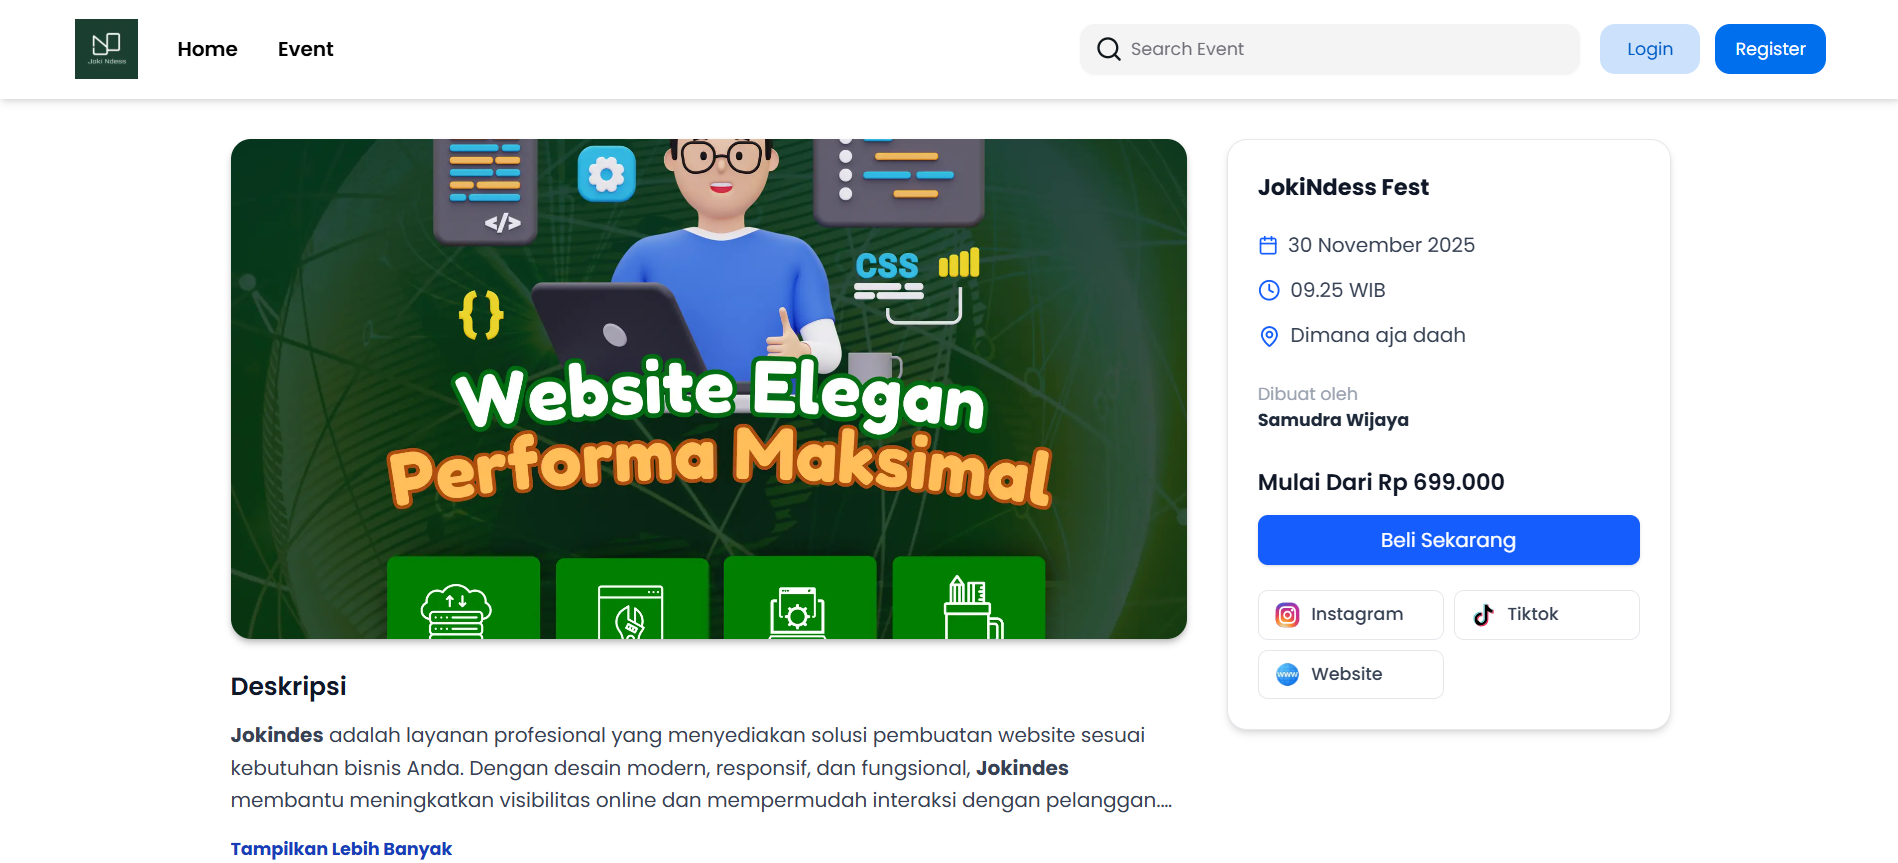
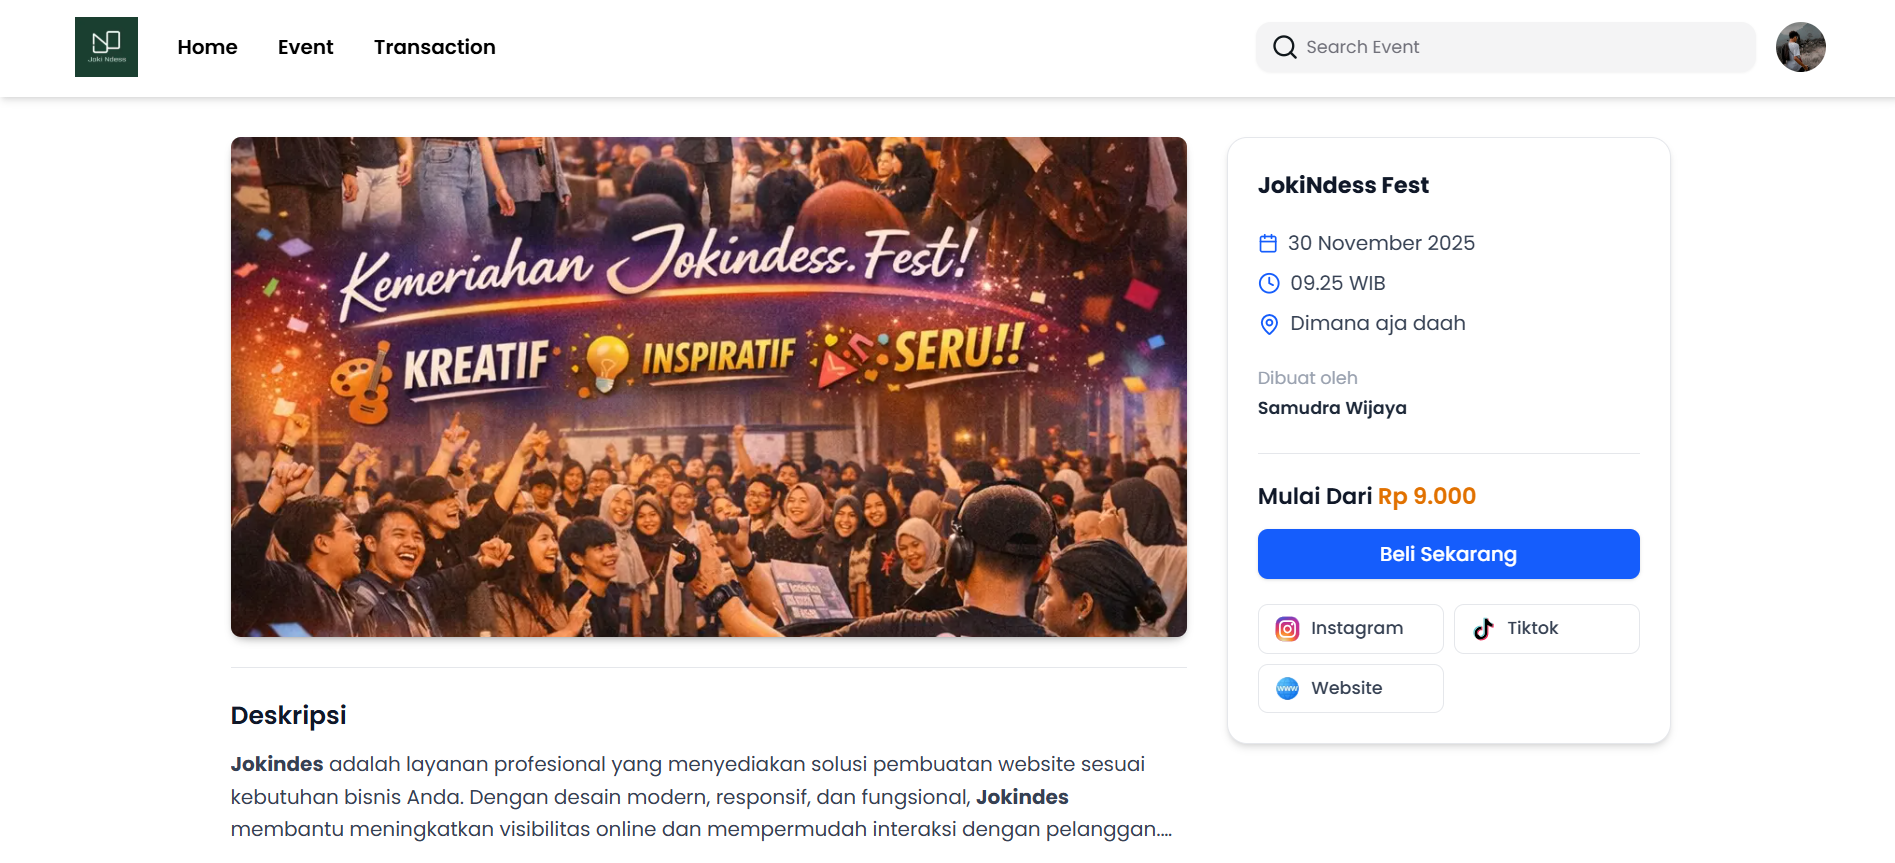
update project

diff --git a/components/Project.tsx b/components/Project.tsx
@@ -17,6 +17,7 @@ import {
   SiAntdesign,
   SiLeaflet,
   SiNextui,
+  SiPrisma,
 } from "react-icons/si";
 import AOS from "aos";
 import "aos/dist/aos.css";
@@ -30,6 +31,7 @@ const iconComponents: { [key: string]: JSX.Element } = {
   FaNodeJs: <FaNodeJs className="w-6 h-6 text-green-500" />,
   SiMongodb: <SiMongodb className="w-6 h-6 text-green-500" />,
   RiNextjsLine: <RiNextjsLine className="w-6 h-6 text-gray-500" />,
+  SiPrisma: <SiPrisma className="w-6 h-6 text-gray-500" />,
   BsBootstrap: <BsBootstrap className="w-6 h-6 text-purple-600" />,
   FaFlutter: <FaFlutter className="w-6 h-6 text-blue-500" />,
   SiTypescript: <SiTypescript className="w-6 h-6 text-blue-500" />,
@@ -106,6 +108,22 @@ const projects = [
       "SiMongodb",
     ],
     link: "https://www.jokindess.com/",
+  },
+  {
+    title: "PPG Balam",
+    description: "A website aimed at and focused on youth development",
+    image: "/project/ppg.png",
+    icon: [
+      "RiNextjsLine",
+      "RiTailwindCssFill",
+      "SiNextui",
+      "SiTypescript",
+      "FaNodeJs",
+      "SiExpress",
+      "SiMysql",
+      "SiPrisma",
+    ],
+    link: "",
   },
   {
     title: "PRC Car Rental",
@@ -250,7 +268,7 @@ const Project = () => {
                     >
                       {iconComponents[iconKey]}
                     </div>
-                  ) : null
+                  ) : null,
                 )}
               </div>
             </PinContainer>
